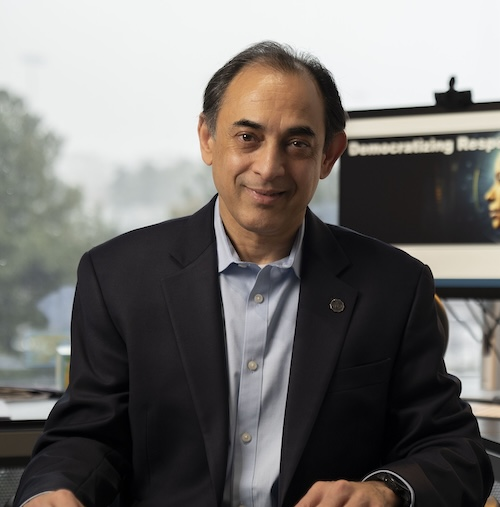
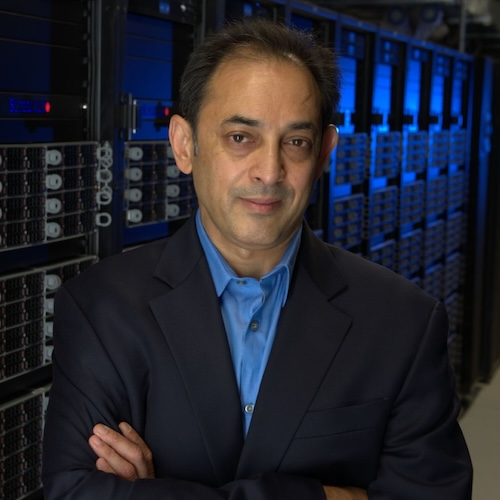
Content: EEP member records + Terms of Use improvements (#34)
* update EEP member content

* update eep page content

* update EepMember component: support headshot for adhoc members, update comment

* move Research Area filter group as first filter

* update content and add copy-to-clipboard functionality to terms of use page

* Update/july 7 (#30)

* update EEP member content

* update eep page content

* update EepMember component: support headshot for adhoc members, update comment

* move Research Area filter group as first filter

* update content and add copy-to-clipboard functionality to terms of use page

* fix Jason Williams profile

* replace EEP headshots with smaller size

* update lastReviewed date in Terms of Use to July 2026

diff --git a/apps/site/src/components/publications/PublicationsFilter.tsx b/apps/site/src/components/publications/PublicationsFilter.tsx
@@ -206,6 +206,12 @@ export default function PublicationsFilter({ publications }: Props) {
             {/* Filter groups */}
             <div className="padding-x-3">
               <FilterGroup
+                legend="Research Area"
+                options={filterOptions.researchAreas}
+                selected={filters.researchArea}
+                onToggle={(v) => toggleFilter('researchArea', v)}
+              />
+              <FilterGroup
                 legend="Year"
                 options={filterOptions.years}
                 selected={filters.year}
@@ -217,12 +223,6 @@ export default function PublicationsFilter({ publications }: Props) {
                 selected={filters.researchCommunity}
                 onToggle={(v) => toggleFilter('researchCommunity', v)}
                 tooltips={RESEARCH_COMMUNITY_TOOLTIPS}
-              />
-              <FilterGroup
-                legend="Research Area"
-                options={filterOptions.researchAreas}
-                selected={filters.researchArea}
-                onToggle={(v) => toggleFilter('researchArea', v)}
               />
               <FilterGroup
                 legend="BDC Contribution"

diff --git a/apps/site/src/content/eep/washington-talitha.md b/apps/site/src/content/eep/washington-talitha.md
@@ -1,6 +1,6 @@
 ---
 name: "Talitha Washington"
-signifier: "Ph.D., D.Sc."
+signifier: "Ph.D."
 slug: "washington-talitha"
 roles:
   - "Office of the Provost"
@@ -13,4 +13,6 @@ term_start: 2024-08-08
 photo: washington-talitha.jpg
 ---
 
-Talitha Washington is a tenured professor of mathematics at Clark Atlanta University and an affiliate faculty at Morehouse College, Morehouse School of Medicine, and Spelman College. Dr. Washington is the Director of the Atlanta University Center (AUC) Data Science Initiative and the Lead Principal Investigator of the National Science Foundation (NSF) National Data Science Alliance. She is the President of the Association for Women in Mathematics (AWM) and was, most recently, a Program Director at the NSF. Her research interests include applied mathematics, dynamical systems, nonstandard finite difference schemes, data science, artificial intelligence, and education. Dr. Washington completed her undergraduate studies in mathematics at Spelman College and her master's and doctoral degrees in mathematics from the University of Connecticut. She is a Fellow of the AWM, the American Mathematical Society, and the American Association for the Advancement of Science.
+Talitha Washington, a distinguished mathematician, serves as the Executive Director of the Center for Applied Data Science & Analytics (CADSA) at Howard University. A transformational leader, Dr. Washington guides CADSA’s direction in harnessing the power of data to address society’s most pressing challenges through groundbreaking research, expanded educational opportunities, and innovative advancements on a global scale. She holds the Sean McCleese Endowed Chair, is a Professor of Mathematics, and is the co-Chair of the President's AI Advisory Council, which guides the university's AI strategy across research, academic, and enterprise initiatives.
+
+Dr. Washington serves as Principal Investigator of the U.S. National Science Foundation–funded Research Coordination Network on Assessing and Predicting Job Outcomes in AI, a national initiative focused on building a coordinated understanding of AI jobs, skills, and credentials to strengthen the nation’s AI workforce ecosystem. She also serves as the Past-President of the Association for Women in Mathematics and a former member of the Census Scientific Advisory Committee of the U.S. Census Bureau. Her research interests include applied mathematics, dynamical systems, nonstandard finite difference schemes, data science, artificial intelligence, and education.

diff --git a/apps/site/src/content/eep/parashar-manish.md b/apps/site/src/content/eep/parashar-manish.md
@@ -3,7 +3,6 @@ name: "Manish Parashar"
 signifier: "Ph.D., FAAAS, FACM, FIEEE"
 slug: "parashar-manish"
 roles:
-  - "Professor of Radiology, Icahn School of Medicine"
   - "Chief Artificial Intelligence Officer"
   - "Executive Director, Scientific Computing and Imaging(SCI) Institute"
   - "Chair in Computational Science and Engineering"
@@ -13,4 +12,4 @@ term_start: 2024-08-08
 photo: parashar-manish.jpg
 ---
 
-Manish Parashar is Director of the Scientific Computing and Imaging (SCI) Institute, Chair in Computational Science and Engineering, and Presidential Professor, Kalhert School of Computing at the University of Utah. He is currently leading the One-Utah Responsible AI Initiative aimed at responsibly leveraging AI to address urgent regional challenges. He recently completed an IPA appointment at the National Science Foundation as Office Director of the NSF Office of Advanced Cyberinfrastructure, where he oversaw investments in national cyberinfrastructure. He also served as co-chair of the National Science and Technology Council's Subcommittee on the Future Advanced Ecosystem and the National Artificial Intelligence Research Resource Task Force. Parashar's expertise is in high performance parallel and distributed computing and cyberinfrastructure. Parashar is the founding chair of the IEEE Technical Consortium on High Performance Computing (TCHPC) and is a Fellow of AAAS, ACM, and IEEE.
+Manish Parashar is the inaugural Chief AI Officer for the University of Utah. He is also the Executive Director of the Scientific Computing and Imaging Institute and Presidential Professor in the University of Utah’s Kahlert School of Computing. He recently completed an IPA appointment at the National Science Foundation as Office Director of the NSF Office of Advanced Cyberinfrastructure, where he oversaw investments in national cyberinfrastructure. He also served as co-chair of the National Science and Technology Council's Subcommittee on the Future Advanced Ecosystem and the National Artificial Intelligence Research Resource Task Force. Parashar's expertise is in high performance parallel and distributed computing and cyberinfrastructure. Parashar is the founding chair of the IEEE Technical Consortium on High Performance Computing (TCHPC) and is a Fellow of AAAS, ACM, and IEEE.

diff --git a/apps/site/src/content/eep/ritchie-marylyn.md b/apps/site/src/content/eep/ritchie-marylyn.md
@@ -13,4 +13,6 @@ term_start: 2024-08-08
 photo: ritchie-marylyn.jpeg
 ---
 
-Marylyn D. Ritchie is the Director of the Institute for Biomedical Informatics, the Director of the Division of Informatics, Department of Biostatistics, Epidemiology, and Informatics, and the Vice Dean of Artificial Intelligence and Computing for the Perelman School of Medicine at the University of Pennsylvania. She is also the Vice President for Research Informatics at the University of Pennsylvania Health System. Dr. Ritchie is an expert in computational genomics, bioinformatics, epistasis, pharmacogenomics, big data, evolutionary computation, genetic epidemiology, statistical genetics, systems genomics, computational biology, translational informatics, and cardiovascular disease. Dr. Ritchie received her Ph.D. in Statistical Genetics and M.S. in Applied Statistics from Vanderbilt University and her B.S. in Biology from the University of Pittsburgh at Johnstown.
+Marylyn D. Ritchie, Ph.D., FACMI, is the chief artificial intelligence officer (CAIO) for the Medical University of South Carolina (MUSC) Enterprise Director of the MUSC AI Center for Health Innovation and Informatics, as well as Associate Dean for Artificial Intelligence and Director of the Division of Computational Health Sciences and Al in the College of Medicine at the Medical University of South Carolina (MUSC). Dr. Ritchie is also the SmartState Endowed Chair in Translational Biomedical Informatics.
+
+Dr. Ritchie is a nationally recognized leader in translational bioinformatics, with more than 20 years of experience developing methods and tools that integrate genomics with electronic health records to better understand complex disease. She has authored more than 500 publications and has been honored as an ACMI Fellow, a member of the National Academy of Medicine, and an ELAM alumna. In her current role at MUSC, she is leading the institution’s AI strategy, advancing collaborative initiatives across education, research, and patient care, while her research applies statistical, computational, machine learning, and AI approaches to connect multi-omics, clinical, environmental, and social determinants of health data for deeper insights into disease.

diff --git a/apps/site/src/content/eep/effingham-mark.md b/apps/site/src/content/eep/effingham-mark.md
@@ -1,11 +1,14 @@
 ---
 name: "Mark Effingham"
-signifier: "Ph.D., MSc"
+signifier: "Ph.D., M.Sc."
 slug: "effingham-mark"
 roles:
   - "Deputy Chief Executive Officer"
   - "UK Biobank"
 term_start: 2024-08-08
+photo: effingham-mark.jpg
 adhoc: true
 ---
-Mark Effingham, Ph.D., M.Sc., is the Deputy CEO of UK Biobank and brings broad experience in technical strategy, IT delivery, and domain expertise in health informatics and big data. He is a Chartered IT Professional and a Fellow of the British Computer Society. He holds a Ph.D. and M.Sc. from the University of Birmingham.
+Mark Effingham is the Deputy CEO of UK Biobank and brings broad experience in technical strategy, IT delivery, and domain expertise in health informatics and big data. He is a Chartered IT Professional and a Fellow of the British Computer Society. He holds a Ph.D. and M.Sc. from the University of Birmingham.
+
+Dr. Effingham has been closely associated with the large-scale programs to add genotyping, exome and whole genome sequencing data to the UK Biobank resource, and has led implementation of UK Biobank’s new cloud-based Research Analysis Platform that provides additional ways for the international research community to engage with this growing petabyte-scale repository of richly curated health data.

diff --git a/apps/site/src/content/eep/bader-david.md b/apps/site/src/content/eep/bader-david.md
@@ -1,13 +1,11 @@
 ---
 name: "David A. Bader"
-signifier: "Ph.D., IEEE, ACM, AAAS, and SIAM"
+signifier: "Ph.D., IEEE, ACM. AAAS, SIAM"
 slug: "bader-david"
 roles:
   - "Distinguished Professor and Director of the Institute for Data Science"
   - "Ying Wu College of Computing"
-  - "New Jersey Institute of Technology"
 term_start: 2024-08-08
 photo: bader-david.jpg
 ---
-
 David A. Bader is a Distinguished Professor and founder of the Department of Data Science in the Ying Wu College of Computing and Director of the Institute for Data Science at New Jersey Institute of Technology. Prior to this, he served as founding Professor and Chair of the School of Computational Science and Engineering, College of Computing, at Georgia Institute of Technology. Bader is an elected Board Member of the Computing Research Association (CRA). He is a Fellow of the IEEE, ACM, AAAS, and SIAM; a recipient of the IEEE Sidney Fernbach Award; and the 2022 Innovation Hall of Fame inductee of the University of Maryland's A. James Clark School of Engineering. The Computer History Museum recognizes Bader for developing the first Linux-based supercomputer, which became the predominant architecture for all major supercomputers in the world.

diff --git a/apps/site/src/content/eep/williams-jason.md b/apps/site/src/content/eep/williams-jason.md
@@ -1,6 +1,6 @@
 ---
 name: "Jason Williams"
-signifier: "M.D., FACR"
+signifier: "B.S."
 slug: "williams-jason"
 roles:
   - "Assistant Director, Diversity and Research Readiness"
@@ -11,3 +11,4 @@ photo: williams-jason.png
 ---
 
 Jason Williams is Assistant Director, Inclusion and Research Readiness at the Cold Spring Harbor Laboratory DNA Learning Center where he develops national biology education programs. Williams leads education, outreach, and training efforts that have reached thousands of students, researchers, and educators in bioinformatics, data science, and molecular biology. His focus has been developing bioinformatics in undergraduate education and career-spanning learning for biologists. Williams is the founder of LifeSciTrainers.org – a global effort to promote a community of practice among professionals who develop short-format training for life scientists. He is an advisor on cyberinfrastructure, bioinformatics, and education projects and initiatives in the U.S., U.K., Europe, and Australia.
+

diff --git a/apps/site/src/content/eep/craven-mark.md b/apps/site/src/content/eep/craven-mark.md
@@ -5,7 +5,7 @@ slug: "craven-mark"
 roles:
   - "Professor, Department of Biostatistics and Medical Informatics"
   - "School of Medicine and Public Health"
-  - "University of Wisconsin – Madison"
+  - "University of Wisconsin-Madison"
 term_start: 2018-08-08
 photo: craven-mark.jpg
 ---
